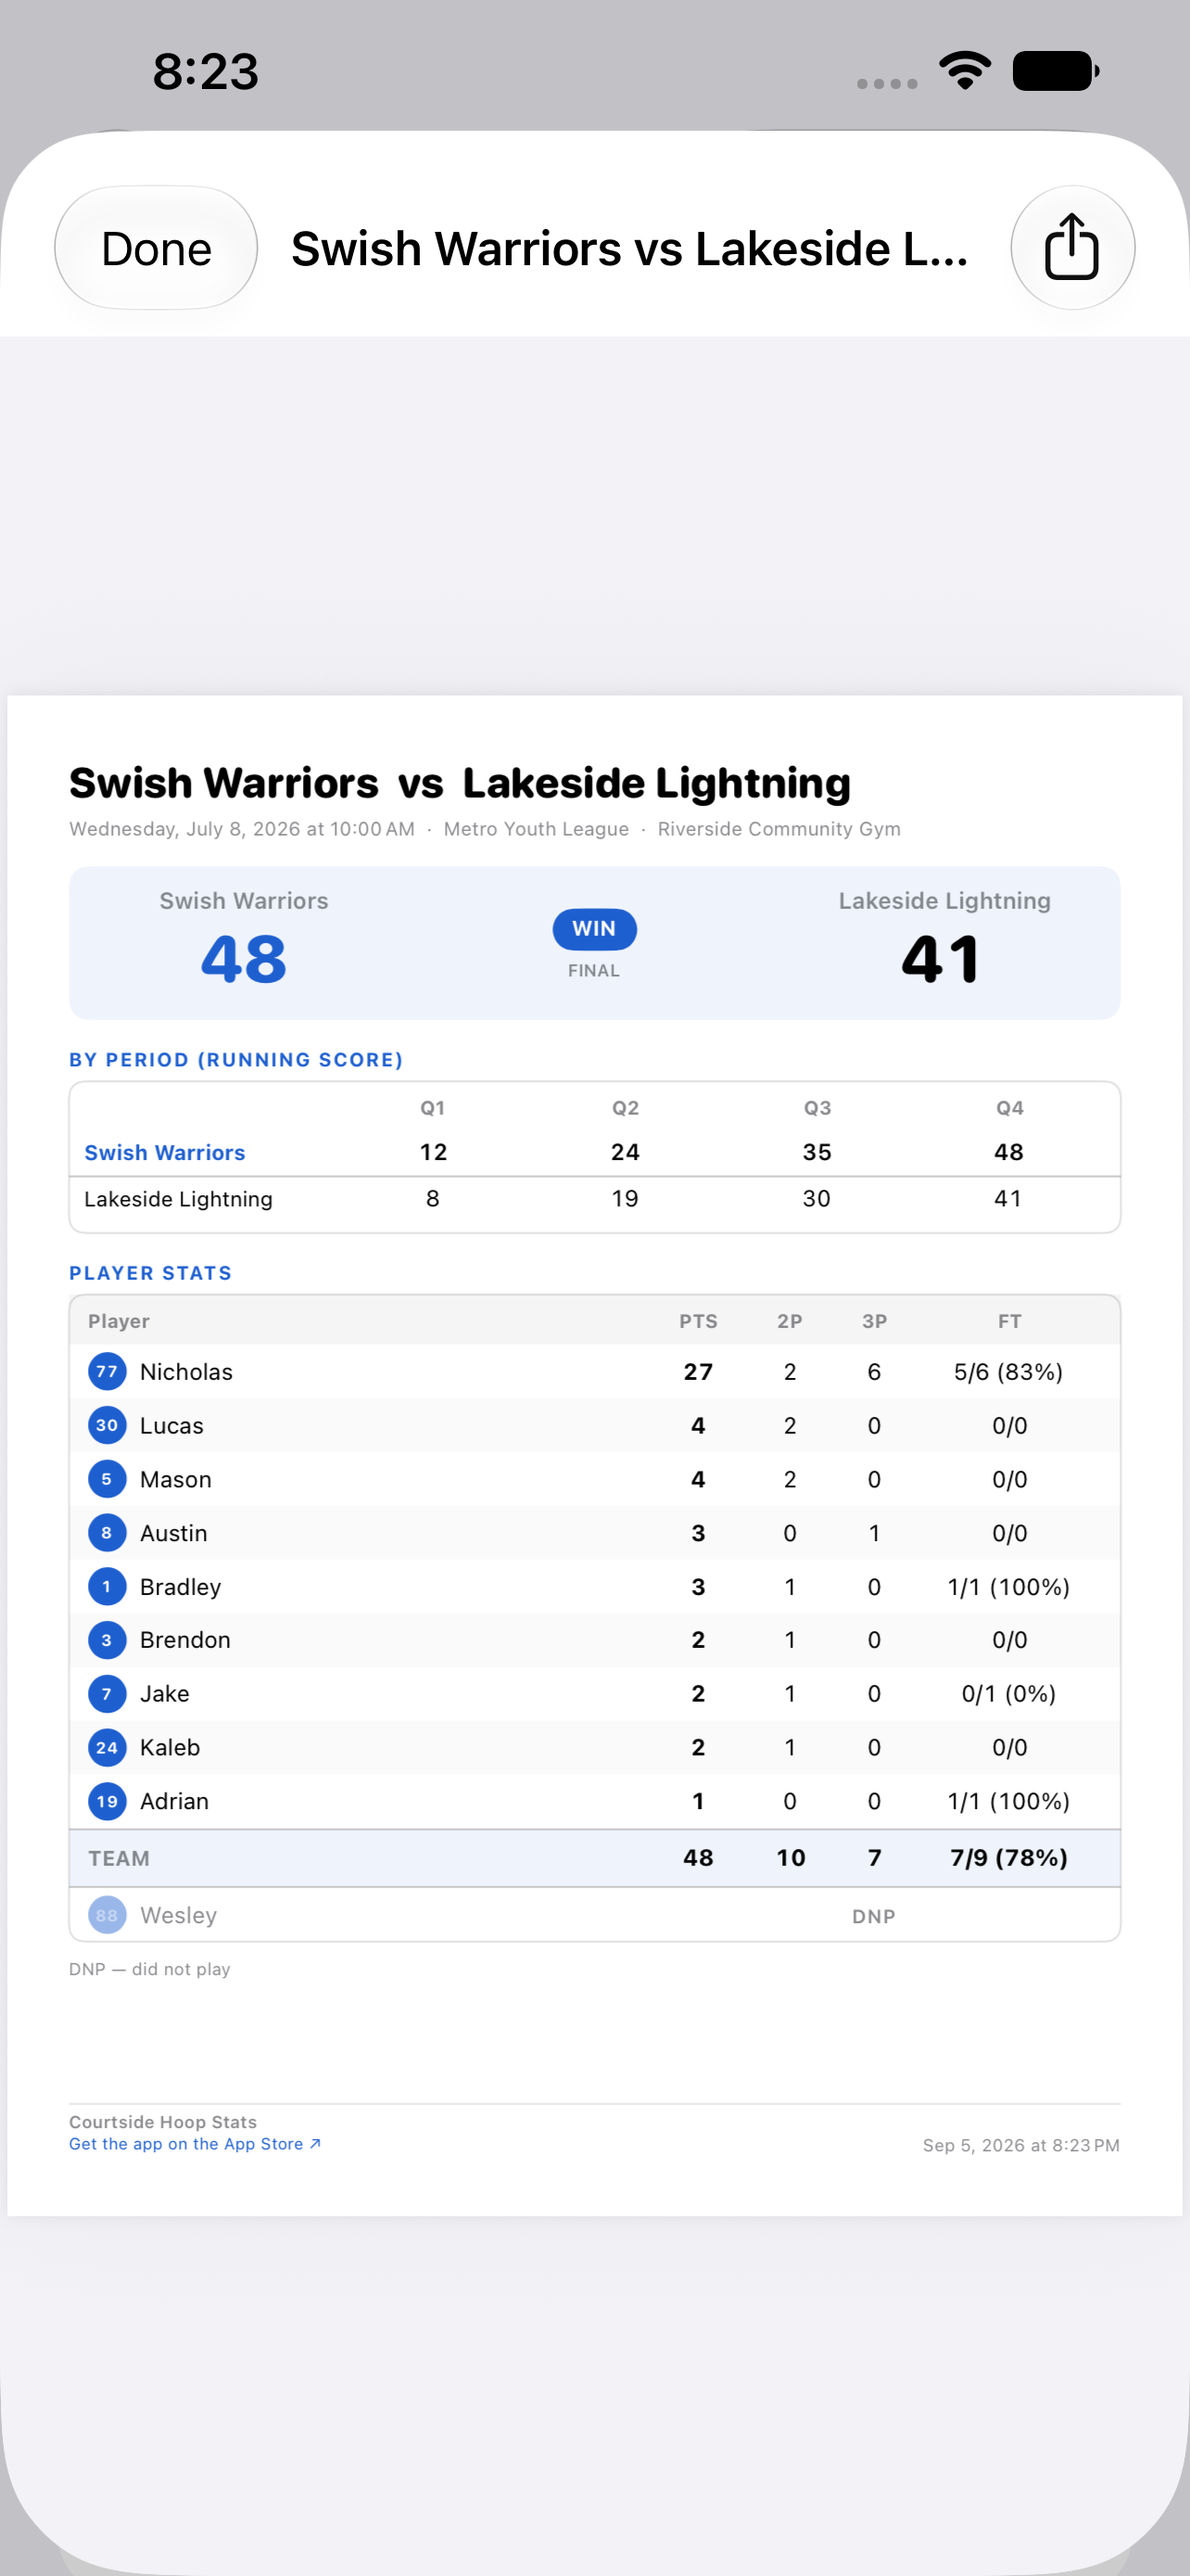
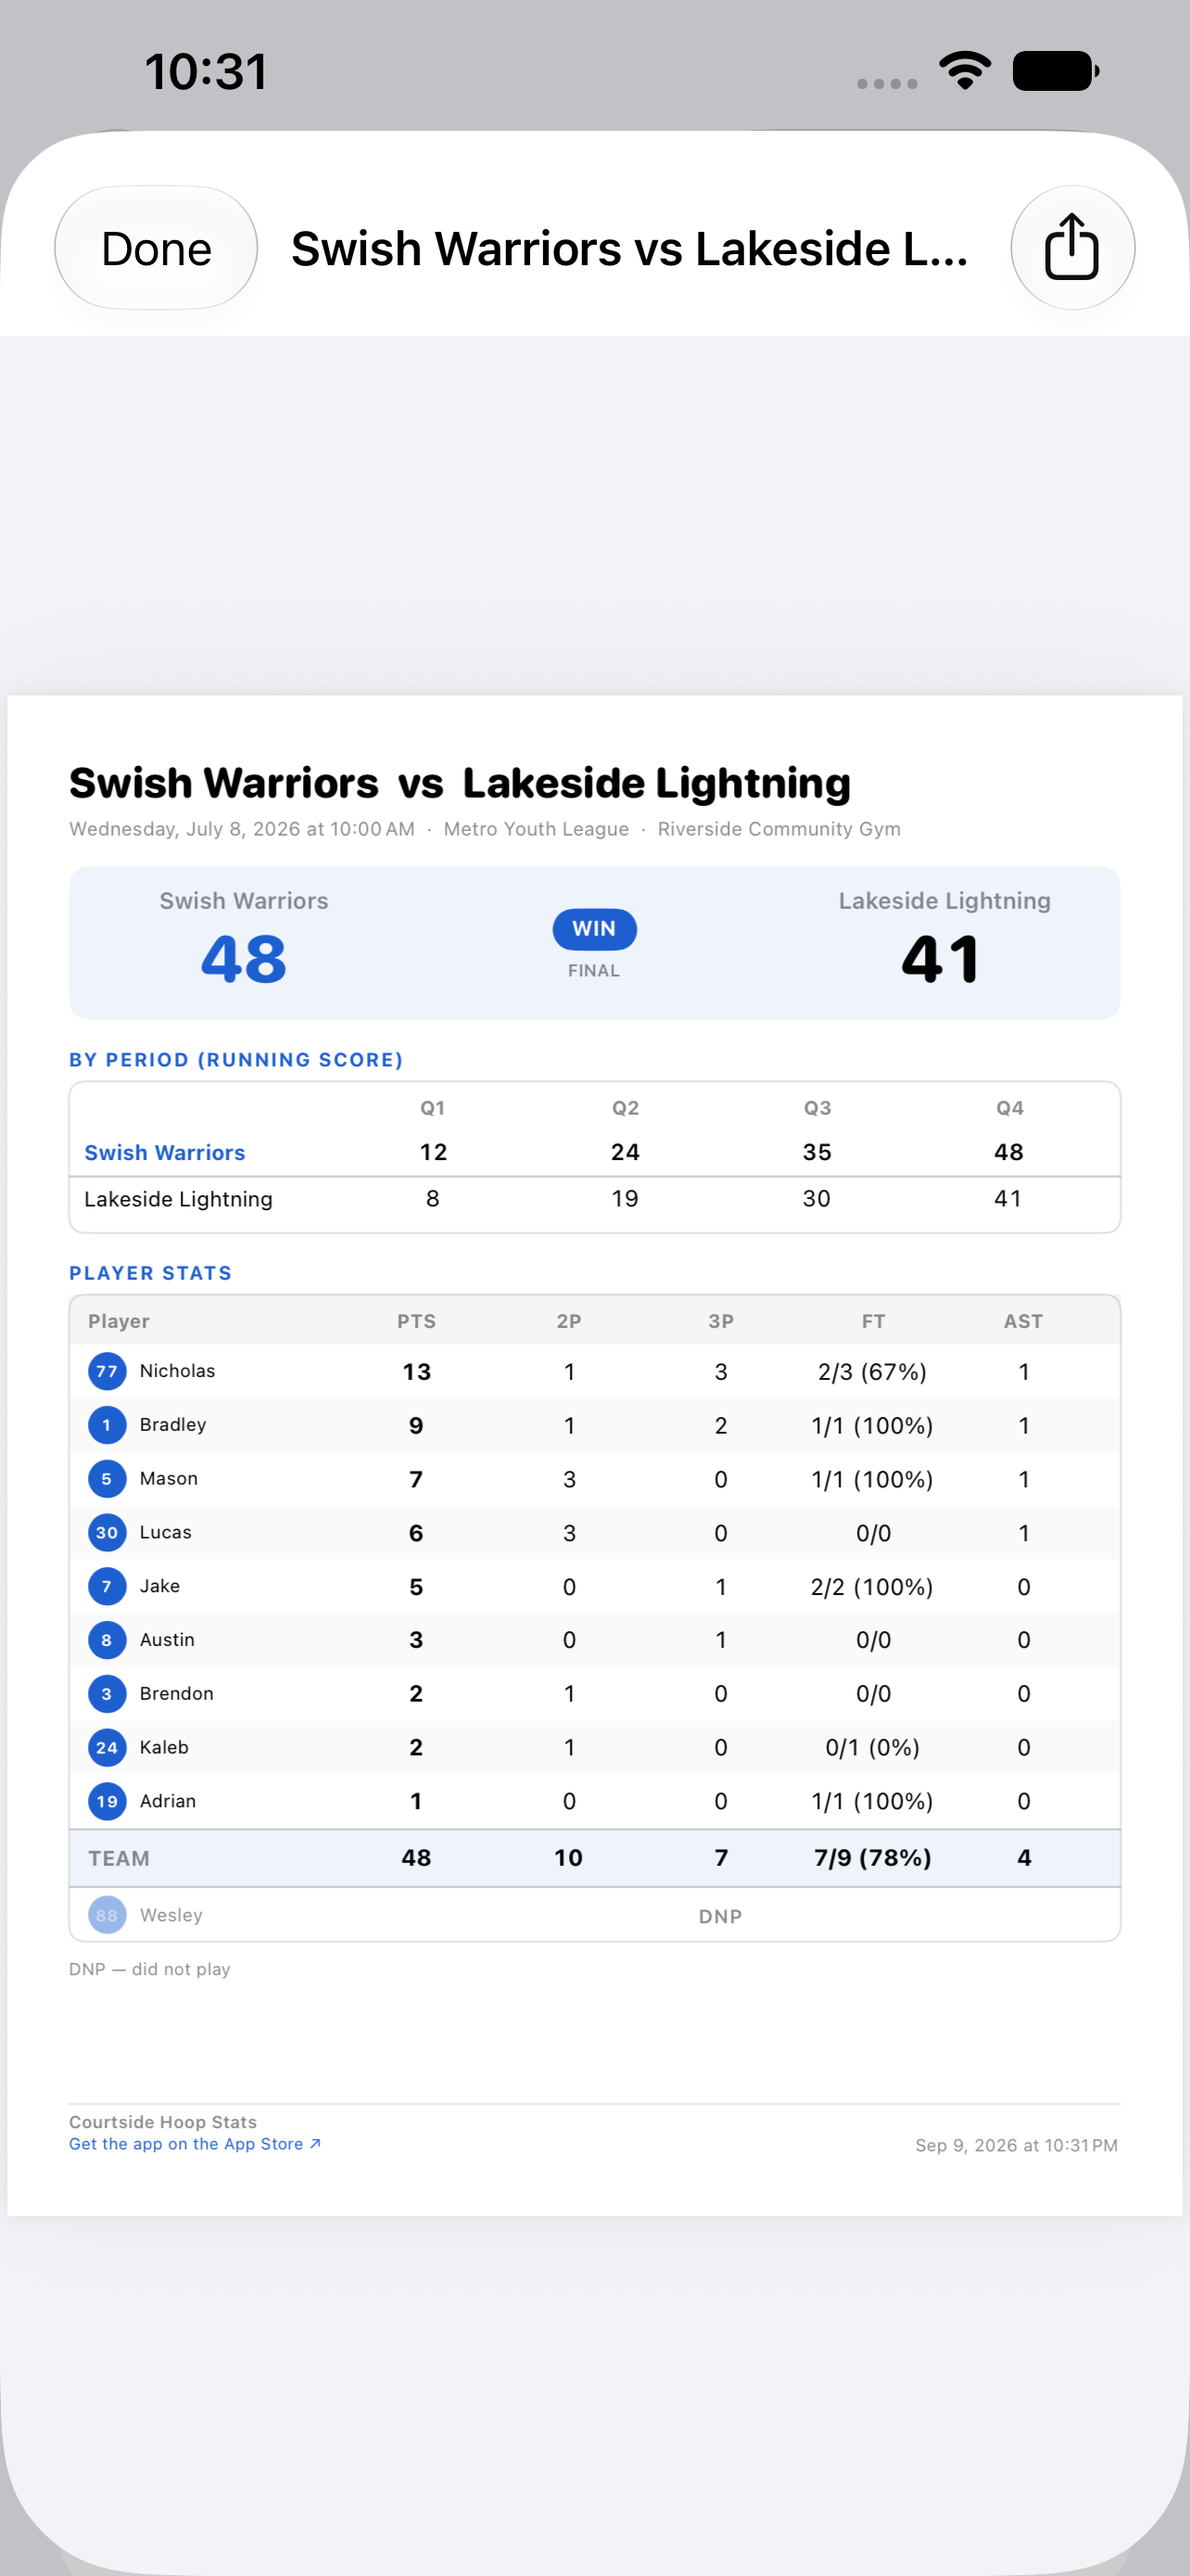
Spread the box score PDF's stat columns and rebalance the demo scoring (#157)
The PDF's Player column claimed every spare point via maxWidth, which
squeezed PTS/2P/3P/FT/AST into fixed widths against the right margin
with a gap of dead space in between. The name column is now fixed at
the same 132 the by-period table above it uses — so both tables share
one left edge — and the stat columns split the remainder evenly.

The demo game also had Nicholas scoring 27 of the team's 48, which
isn't what a youth box score looks like and made the store screenshots
read oddly. Redistributed to 13/9/7/6/5/3/2/2/1 with assists on four
different players' makes. Team totals are deliberately unchanged
(48 points, 10 2P, 7 3P, 7/9 FT), so the linescore, the final score
and every test asserting them still line up.

Refreshes the two store screenshots this changes: docs/img/04-game-summary
and 05-game-summary-share-pdf, recaptured on iPhone 14 Plus at the
listing's 1284x2778.

Claude-Session: https://claude.ai/code/session_01XKw3Fyr61m8RtwfRppQofX

diff --git a/CourtsideHoopStats/Views/GameSummaryPDF.swift b/CourtsideHoopStats/Views/GameSummaryPDF.swift
@@ -167,7 +167,7 @@ struct GameSummaryPrintout: View {
             sectionTitle("By Period (running score)")
             VStack(spacing: 0) {
                 HStack(spacing: 0) {
-                    Text("").frame(width: 132, alignment: .leading)
+                    Text("").frame(width: Self.nameColumnWidth, alignment: .leading)
                     ForEach(rows, id: \.period) { row in
                         Text(game.periodFormat.periodLabel(row.period))
                             .frame(maxWidth: .infinity)
@@ -197,7 +197,7 @@ struct GameSummaryPrintout: View {
                 // Team names run long ("Lakeside Lightning"); shrink rather
                 // than truncate, since a clipped name looks like a bug.
                 .minimumScaleFactor(0.7)
-                .frame(width: 132, alignment: .leading)
+                .frame(width: Self.nameColumnWidth, alignment: .leading)
             ForEach(Array(values.enumerated()), id: \.offset) { _, value in
                 Text("\(value)")
                     .font(.system(size: 12, weight: bold ? .semibold : .regular))
@@ -216,13 +216,18 @@ struct GameSummaryPrintout: View {
         VStack(alignment: .leading, spacing: 6) {
             sectionTitle("Player Stats")
             VStack(spacing: 0) {
+                // The name column is fixed at the same 132 the by-period table
+                // above uses, so both tables' left edges line up — and the
+                // stat columns then split the rest evenly instead of being
+                // squeezed against the right margin by a name column that
+                // had claimed every spare point (#148 follow-up).
                 HStack(spacing: 0) {
-                    Text("Player").frame(maxWidth: .infinity, alignment: .leading)
-                    Text("PTS").frame(width: 44)
-                    Text("2P").frame(width: 38)
-                    Text("3P").frame(width: 38)
-                    Text("FT").frame(width: 80)
-                    Text("AST").frame(width: 40)
+                    Text("Player").frame(width: Self.nameColumnWidth, alignment: .leading)
+                    Text("PTS").frame(maxWidth: .infinity)
+                    Text("2P").frame(maxWidth: .infinity)
+                    Text("3P").frame(maxWidth: .infinity)
+                    Text("FT").frame(maxWidth: .infinity)
+                    Text("AST").frame(maxWidth: .infinity)
                 }
                 .font(.system(size: 10, weight: .bold))
                 .foregroundStyle(.secondary)
@@ -241,12 +246,12 @@ struct GameSummaryPrintout: View {
                                 .lineLimit(1)
                                 .minimumScaleFactor(0.8)
                         }
-                        .frame(maxWidth: .infinity, alignment: .leading)
-                        statCell("\(stat.points)", width: 44, bold: true)
-                        statCell("\(stat.twoPointers)", width: 38)
-                        statCell("\(stat.threePointers)", width: 38)
-                        statCell(stat.freeThrowDisplay, width: 80)
-                        statCell("\(stat.assists)", width: 40)
+                        .frame(width: Self.nameColumnWidth, alignment: .leading)
+                        statCell("\(stat.points)", bold: true)
+                        statCell("\(stat.twoPointers)")
+                        statCell("\(stat.threePointers)")
+                        statCell(stat.freeThrowDisplay)
+                        statCell("\(stat.assists)")
                     }
                     .padding(.horizontal, 10)
                     .padding(.vertical, 4)
@@ -271,12 +276,12 @@ struct GameSummaryPrintout: View {
                                     .lineLimit(1)
                                     .minimumScaleFactor(0.8)
                             }
-                            .frame(maxWidth: .infinity, alignment: .leading)
+                            .frame(width: Self.nameColumnWidth, alignment: .leading)
                             Text("DNP")
                                 .font(.system(size: 10, weight: .semibold))
                                 .foregroundStyle(.secondary)
                                 .tracking(0.5)
-                                .frame(width: 240)
+                                .frame(maxWidth: .infinity)
                         }
                         .padding(.horizontal, 10)
                         .padding(.vertical, 4)
@@ -305,24 +310,28 @@ struct GameSummaryPrintout: View {
             Text("TEAM")
                 .font(.system(size: 11, weight: .bold))
                 .foregroundStyle(.secondary)
-                .frame(maxWidth: .infinity, alignment: .leading)
-            statCell("\(stats.reduce(0) { $0 + $1.points })", width: 44, bold: true)
-            statCell("\(stats.reduce(0) { $0 + $1.twoPointers })", width: 38, bold: true)
-            statCell("\(stats.reduce(0) { $0 + $1.threePointers })", width: 38, bold: true)
-            statCell(ftText, width: 80, bold: true)
-            statCell("\(stats.reduce(0) { $0 + $1.assists })", width: 40, bold: true)
+                .frame(width: Self.nameColumnWidth, alignment: .leading)
+            statCell("\(stats.reduce(0) { $0 + $1.points })", bold: true)
+            statCell("\(stats.reduce(0) { $0 + $1.twoPointers })", bold: true)
+            statCell("\(stats.reduce(0) { $0 + $1.threePointers })", bold: true)
+            statCell(ftText, bold: true)
+            statCell("\(stats.reduce(0) { $0 + $1.assists })", bold: true)
         }
         .padding(.horizontal, 10)
         .padding(.vertical, 7)
         .background(Color.teamAccent.opacity(0.07))
     }
 
-    private func statCell(_ text: String, width: CGFloat, bold: Bool = false) -> some View {
+    /// Width of both tables' left-hand name column, so the by-period
+    /// linescore and the stats table share one left edge.
+    private static let nameColumnWidth: CGFloat = 132
+
+    private func statCell(_ text: String, bold: Bool = false) -> some View {
         Text(text)
             .font(.system(size: 12, weight: bold ? .bold : .regular))
             .monospacedDigit()
             .foregroundStyle(.black)
-            .frame(width: width)
+            .frame(maxWidth: .infinity)
     }
 
     // MARK: Chrome

diff --git a/CourtsideHoopStats/Models/DemoData.swift b/CourtsideHoopStats/Models/DemoData.swift
@@ -320,26 +320,32 @@ enum DemoData {
     private static func finishedGame(team: Team) -> Game {
         let p = team.players
         var events: [GameEvent] = []
-        // (playerIndex, type, period). Nicholas (#77, index 8) is the standout —
-        // six made 3s and a game-high 27. Our per-quarter deltas: 12, 12, 11, 13 = 48.
-        let script: [(Int, EventType, Int)] = [
+        // (playerIndex, type, period, assistIndex). Scoring is spread the way a
+        // real youth roster's is: Nicholas (#77, index 8) still leads, at 13,
+        // but with Bradley on 9 and Mason on 7 behind him rather than one kid
+        // taking half the team's points. Per-quarter deltas: 12, 12, 11, 13 = 48.
+        // Assists (the fourth field) are on four different players' makes so
+        // the AST column and box-score PDF show something real, not zeroes.
+        let script: [(Int, EventType, Int, Int?)] = [
             // Q1 = 12
-            (8, .threePoint, 1), (8, .threePoint, 1), (2, .twoPoint, 1),
-            (7, .twoPoint, 1), (8, .ftMade, 1), (0, .ftMade, 1),
+            (8, .threePoint, 1, 2), (2, .twoPoint, 1, nil), (7, .twoPoint, 1, nil),
+            (4, .threePoint, 1, nil), (2, .ftMade, 1, nil), (0, .ftMade, 1, nil),
             // Q2 = 12
-            (8, .threePoint, 2), (3, .twoPoint, 2), (4, .twoPoint, 2),
-            (8, .twoPoint, 2), (1, .threePoint, 2),
+            (8, .twoPoint, 2, nil), (2, .threePoint, 2, 8), (6, .twoPoint, 2, nil),
+            (3, .twoPoint, 2, nil), (1, .threePoint, 2, nil),
             // Q3 = 11
-            (8, .threePoint, 3), (7, .twoPoint, 3), (8, .twoPoint, 3),
-            (6, .twoPoint, 3), (8, .ftMade, 3), (8, .ftMissed, 3), (2, .ftMade, 3),
+            (8, .threePoint, 3, 7), (7, .twoPoint, 3, nil), (6, .twoPoint, 3, nil),
+            (5, .twoPoint, 3, nil), (8, .ftMade, 3, nil), (8, .ftMissed, 3, nil),
+            (4, .ftMade, 3, nil),
             // Q4 = 13
-            (8, .threePoint, 4), (8, .threePoint, 4), (5, .twoPoint, 4),
-            (6, .twoPoint, 4), (8, .ftMade, 4), (8, .ftMade, 4), (8, .ftMade, 4),
-            (4, .ftMissed, 4),
+            (8, .threePoint, 4, nil), (8, .ftMade, 4, nil), (2, .threePoint, 4, nil),
+            (7, .twoPoint, 4, 6), (7, .ftMade, 4, nil), (6, .twoPoint, 4, nil),
+            (4, .ftMade, 4, nil), (5, .ftMissed, 4, nil),
         ]
-        for (idx, type, period) in script {
+        for (idx, type, period, assistIdx) in script {
             events.append(GameEvent(playerID: p[idx].id, type: type, period: period,
-                                    timestamp: refDate.addingTimeInterval(Double(period) * 600)))
+                                    timestamp: refDate.addingTimeInterval(Double(period) * 600),
+                                    assistPlayerID: assistIdx.map { p[$0].id }))
         }
         // Opponent running totals per quarter: 8, 19, 30, 41 (final 41 < our 48).
         let periodEnds: [Int: PeriodEndScore] = [
